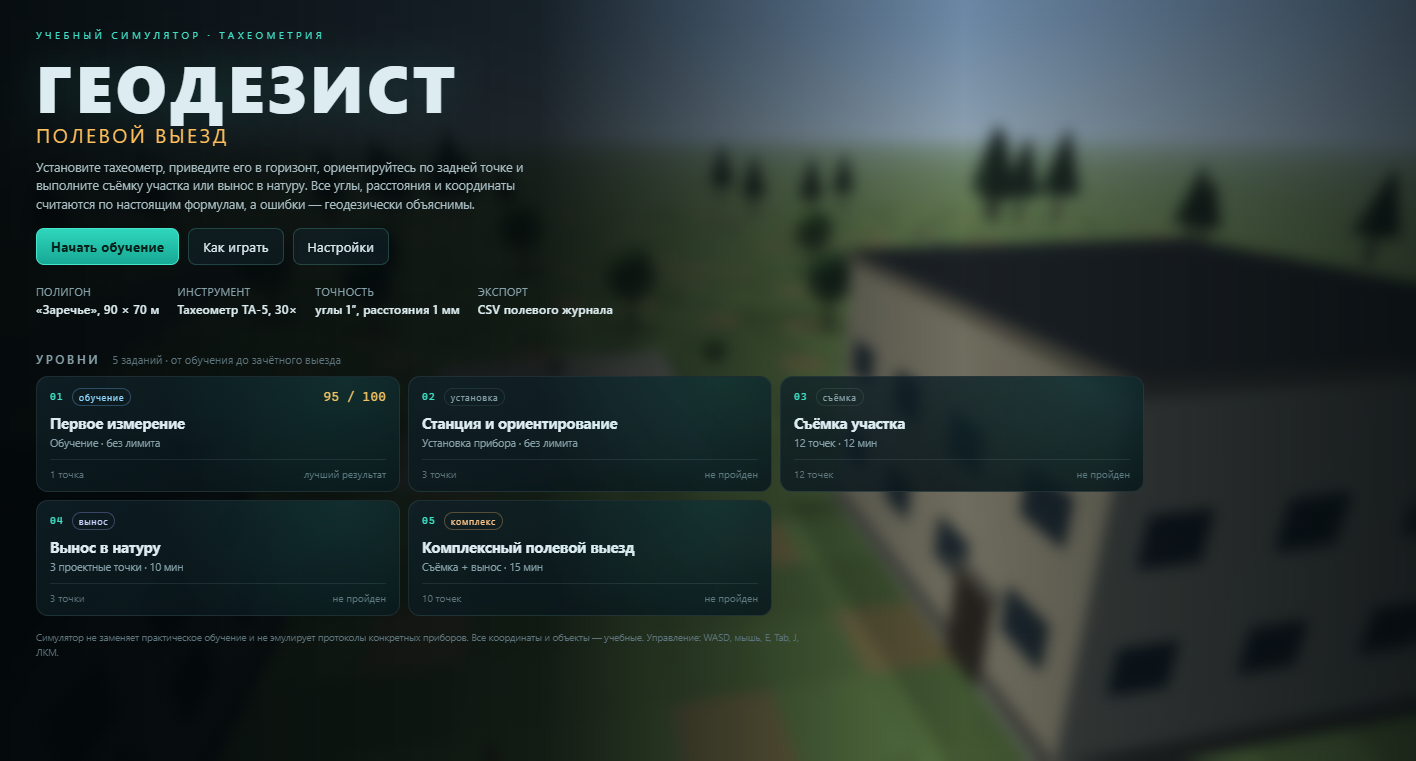
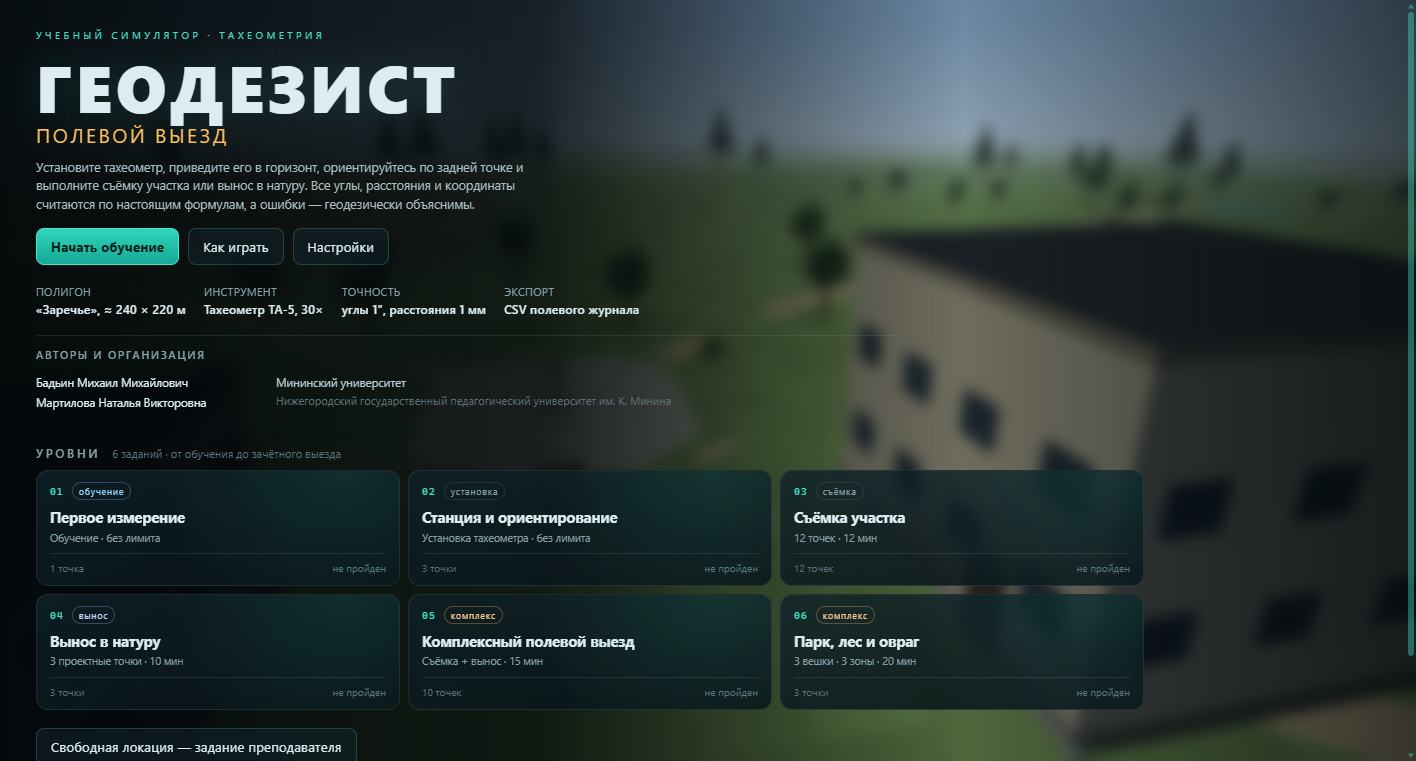
Add files via upload

diff --git a/dist/geodezist.html b/dist/geodezist.html
@@ -352,6 +352,13 @@ body.target-locked .lcd-lock { background: var(--teal); box-shadow: 0 0 8px var(
 .hero-actions { display: flex; gap: 9px; flex-wrap: wrap; margin-bottom: 34px; }
 .hero-meta { display: flex; gap: 26px; flex-wrap: wrap; font-size: 10.5px; color: var(--muted); letter-spacing: .06em; }
 .hero-meta b { display: block; color: var(--text); font-size: 13px; letter-spacing: .02em; margin-top: 2px; font-weight: 600; }
+.authors-block { display: grid; grid-template-columns: 210px 1fr; gap: 10px 30px; max-width: 860px; margin: 28px 0 0; padding-top: 17px; border-top: 1px solid var(--line-soft); }
+.authors-block h3 { grid-column: 1 / -1; margin: 0 0 2px; font-size: 10.5px; font-weight: 600; letter-spacing: .18em; text-transform: uppercase; color: var(--muted); }
+.authors-people { display: flex; flex-direction: column; gap: 3px; font-size: 12.5px; line-height: 1.5; color: var(--text); }
+.authors-people span { display: block; }
+.authors-org { font-size: 12.5px; line-height: 1.5; color: #b9ccd1; }
+.authors-org span { display: block; margin-top: 2px; font-size: 11px; color: var(--muted-2); }
+.title-copyright { margin-top: 18px; padding-top: 10px; border-top: 1px solid rgba(255,255,255,.07); font-size: 10px; line-height: 1.5; color: var(--muted-2); letter-spacing: .02em; }
 .level-section-head { display: flex; align-items: baseline; gap: 12px; margin: 8px 0 13px; }
 .level-section-head h3 { font-size: 12px; letter-spacing: .22em; color: var(--muted); font-weight: 600; margin: 0; }
 .level-section-head span { font-size: 11px; color: var(--muted-2); }
@@ -530,6 +537,8 @@ table.journal td .del:hover { color: var(--red); }
   #lcd { width: 230px; }
   .sheet-body { padding: 14px; }
   .field-grid { grid-template-columns: 1fr 1fr; }
+  .authors-block { grid-template-columns: 1fr; gap: 7px; margin-top: 18px; padding-top: 12px; }
+  .authors-block h3 { grid-column: 1; }
   #minimap-wrap { display: none !important; }
 }
 @media (max-height: 840px) {
@@ -538,6 +547,9 @@ table.journal td .del:hover { color: var(--red); }
   .title-hero h2 { font-size: 20px; margin: 4px 0 10px; }
   .title-hero p { font-size: 12.5px; line-height: 1.5; margin-bottom: 14px; max-width: 540px; }
   .hero-actions { margin-bottom: 20px; }
+  .authors-block { margin-top: 18px; padding-top: 12px; }
+  .authors-people, .authors-org { font-size: 11.5px; }
+  .title-copyright { margin-top: 12px; }
   .hero-meta { gap: 18px; }
   .hero-meta b { font-size: 12px; }
   .level-section-head { margin: 2px 0 9px; }
@@ -4495,10 +4507,16 @@ window.GEO.LEVELS = [
         '<div>ТОЧНОСТЬ<b>углы 1″, расстояния 1 мм</b></div>' +
         '<div>ЭКСПОРТ<b>CSV полевого журнала</b></div>' +
         '</div></div>' +
+        '<div class="authors-block">' +
+        '<h3>Авторы и организация</h3>' +
+        '<div class="authors-people"><span>Бадьин Михаил Михайлович</span><span>Мартилова Наталья Викторовна</span></div>' +
+        '<div class="authors-org">Мининский университет<span>Нижегородский государственный педагогический университет им. К. Минина</span></div>' +
+        '</div>' +
         '<div class="level-section-head" style="margin-top:34px"><h3>УРОВНИ</h3><span>6 заданий · от обучения до зачётного выезда</span></div>' +
         '<div class="level-grid">' + cards + '</div>' +
         '<div class="form-row" style="margin-top:18px"><button class="btn" data-act="custom-level">Свободная локация — задание преподавателя</button></div>' +
         '<div class="title-foot">Симулятор не заменяет практическое обучение и не эмулирует протоколы конкретных тахеометров. Все координаты и объекты — учебные. Управление: WASD, мышь, E, Tab, J, ЛКМ.</div>' +
+        '<div class="title-copyright">© Мининский университет · Бадьин М.М., Мартилова Н.В.</div>' +
         '</div>',
       onMount: function () {
         var sheet = this.root.querySelector('.sheet');

diff --git a/dist/Геодезист_Полевой_выезд.html b/dist/Геодезист_Полевой_выезд.html
@@ -352,6 +352,13 @@ body.target-locked .lcd-lock { background: var(--teal); box-shadow: 0 0 8px var(
 .hero-actions { display: flex; gap: 9px; flex-wrap: wrap; margin-bottom: 34px; }
 .hero-meta { display: flex; gap: 26px; flex-wrap: wrap; font-size: 10.5px; color: var(--muted); letter-spacing: .06em; }
 .hero-meta b { display: block; color: var(--text); font-size: 13px; letter-spacing: .02em; margin-top: 2px; font-weight: 600; }
+.authors-block { display: grid; grid-template-columns: 210px 1fr; gap: 10px 30px; max-width: 860px; margin: 28px 0 0; padding-top: 17px; border-top: 1px solid var(--line-soft); }
+.authors-block h3 { grid-column: 1 / -1; margin: 0 0 2px; font-size: 10.5px; font-weight: 600; letter-spacing: .18em; text-transform: uppercase; color: var(--muted); }
+.authors-people { display: flex; flex-direction: column; gap: 3px; font-size: 12.5px; line-height: 1.5; color: var(--text); }
+.authors-people span { display: block; }
+.authors-org { font-size: 12.5px; line-height: 1.5; color: #b9ccd1; }
+.authors-org span { display: block; margin-top: 2px; font-size: 11px; color: var(--muted-2); }
+.title-copyright { margin-top: 18px; padding-top: 10px; border-top: 1px solid rgba(255,255,255,.07); font-size: 10px; line-height: 1.5; color: var(--muted-2); letter-spacing: .02em; }
 .level-section-head { display: flex; align-items: baseline; gap: 12px; margin: 8px 0 13px; }
 .level-section-head h3 { font-size: 12px; letter-spacing: .22em; color: var(--muted); font-weight: 600; margin: 0; }
 .level-section-head span { font-size: 11px; color: var(--muted-2); }
@@ -530,6 +537,8 @@ table.journal td .del:hover { color: var(--red); }
   #lcd { width: 230px; }
   .sheet-body { padding: 14px; }
   .field-grid { grid-template-columns: 1fr 1fr; }
+  .authors-block { grid-template-columns: 1fr; gap: 7px; margin-top: 18px; padding-top: 12px; }
+  .authors-block h3 { grid-column: 1; }
   #minimap-wrap { display: none !important; }
 }
 @media (max-height: 840px) {
@@ -538,6 +547,9 @@ table.journal td .del:hover { color: var(--red); }
   .title-hero h2 { font-size: 20px; margin: 4px 0 10px; }
   .title-hero p { font-size: 12.5px; line-height: 1.5; margin-bottom: 14px; max-width: 540px; }
   .hero-actions { margin-bottom: 20px; }
+  .authors-block { margin-top: 18px; padding-top: 12px; }
+  .authors-people, .authors-org { font-size: 11.5px; }
+  .title-copyright { margin-top: 12px; }
   .hero-meta { gap: 18px; }
   .hero-meta b { font-size: 12px; }
   .level-section-head { margin: 2px 0 9px; }
@@ -4495,10 +4507,16 @@ window.GEO.LEVELS = [
         '<div>ТОЧНОСТЬ<b>углы 1″, расстояния 1 мм</b></div>' +
         '<div>ЭКСПОРТ<b>CSV полевого журнала</b></div>' +
         '</div></div>' +
+        '<div class="authors-block">' +
+        '<h3>Авторы и организация</h3>' +
+        '<div class="authors-people"><span>Бадьин Михаил Михайлович</span><span>Мартилова Наталья Викторовна</span></div>' +
+        '<div class="authors-org">Мининский университет<span>Нижегородский государственный педагогический университет им. К. Минина</span></div>' +
+        '</div>' +
         '<div class="level-section-head" style="margin-top:34px"><h3>УРОВНИ</h3><span>6 заданий · от обучения до зачётного выезда</span></div>' +
         '<div class="level-grid">' + cards + '</div>' +
         '<div class="form-row" style="margin-top:18px"><button class="btn" data-act="custom-level">Свободная локация — задание преподавателя</button></div>' +
         '<div class="title-foot">Симулятор не заменяет практическое обучение и не эмулирует протоколы конкретных тахеометров. Все координаты и объекты — учебные. Управление: WASD, мышь, E, Tab, J, ЛКМ.</div>' +
+        '<div class="title-copyright">© Мининский университет · Бадьин М.М., Мартилова Н.В.</div>' +
         '</div>',
       onMount: function () {
         var sheet = this.root.querySelector('.sheet');

diff --git a/css/style.css b/css/style.css
@@ -342,6 +342,13 @@ body.target-locked .lcd-lock { background: var(--teal); box-shadow: 0 0 8px var(
 .hero-actions { display: flex; gap: 9px; flex-wrap: wrap; margin-bottom: 34px; }
 .hero-meta { display: flex; gap: 26px; flex-wrap: wrap; font-size: 10.5px; color: var(--muted); letter-spacing: .06em; }
 .hero-meta b { display: block; color: var(--text); font-size: 13px; letter-spacing: .02em; margin-top: 2px; font-weight: 600; }
+.authors-block { display: grid; grid-template-columns: 210px 1fr; gap: 10px 30px; max-width: 860px; margin: 28px 0 0; padding-top: 17px; border-top: 1px solid var(--line-soft); }
+.authors-block h3 { grid-column: 1 / -1; margin: 0 0 2px; font-size: 10.5px; font-weight: 600; letter-spacing: .18em; text-transform: uppercase; color: var(--muted); }
+.authors-people { display: flex; flex-direction: column; gap: 3px; font-size: 12.5px; line-height: 1.5; color: var(--text); }
+.authors-people span { display: block; }
+.authors-org { font-size: 12.5px; line-height: 1.5; color: #b9ccd1; }
+.authors-org span { display: block; margin-top: 2px; font-size: 11px; color: var(--muted-2); }
+.title-copyright { margin-top: 18px; padding-top: 10px; border-top: 1px solid rgba(255,255,255,.07); font-size: 10px; line-height: 1.5; color: var(--muted-2); letter-spacing: .02em; }
 .level-section-head { display: flex; align-items: baseline; gap: 12px; margin: 8px 0 13px; }
 .level-section-head h3 { font-size: 12px; letter-spacing: .22em; color: var(--muted); font-weight: 600; margin: 0; }
 .level-section-head span { font-size: 11px; color: var(--muted-2); }
@@ -520,6 +527,8 @@ table.journal td .del:hover { color: var(--red); }
   #lcd { width: 230px; }
   .sheet-body { padding: 14px; }
   .field-grid { grid-template-columns: 1fr 1fr; }
+  .authors-block { grid-template-columns: 1fr; gap: 7px; margin-top: 18px; padding-top: 12px; }
+  .authors-block h3 { grid-column: 1; }
   #minimap-wrap { display: none !important; }
 }
 @media (max-height: 840px) {
@@ -528,6 +537,9 @@ table.journal td .del:hover { color: var(--red); }
   .title-hero h2 { font-size: 20px; margin: 4px 0 10px; }
   .title-hero p { font-size: 12.5px; line-height: 1.5; margin-bottom: 14px; max-width: 540px; }
   .hero-actions { margin-bottom: 20px; }
+  .authors-block { margin-top: 18px; padding-top: 12px; }
+  .authors-people, .authors-org { font-size: 11.5px; }
+  .title-copyright { margin-top: 12px; }
   .hero-meta { gap: 18px; }
   .hero-meta b { font-size: 12px; }
   .level-section-head { margin: 2px 0 9px; }

diff --git a/js/06_ui.js b/js/06_ui.js
@@ -274,10 +274,16 @@
         '<div>ТОЧНОСТЬ<b>углы 1″, расстояния 1 мм</b></div>' +
         '<div>ЭКСПОРТ<b>CSV полевого журнала</b></div>' +
         '</div></div>' +
+        '<div class="authors-block">' +
+        '<h3>Авторы и организация</h3>' +
+        '<div class="authors-people"><span>Бадьин Михаил Михайлович</span><span>Мартилова Наталья Викторовна</span></div>' +
+        '<div class="authors-org">Мининский университет<span>Нижегородский государственный педагогический университет им. К. Минина</span></div>' +
+        '</div>' +
         '<div class="level-section-head" style="margin-top:34px"><h3>УРОВНИ</h3><span>6 заданий · от обучения до зачётного выезда</span></div>' +
         '<div class="level-grid">' + cards + '</div>' +
         '<div class="form-row" style="margin-top:18px"><button class="btn" data-act="custom-level">Свободная локация — задание преподавателя</button></div>' +
         '<div class="title-foot">Симулятор не заменяет практическое обучение и не эмулирует протоколы конкретных тахеометров. Все координаты и объекты — учебные. Управление: WASD, мышь, E, Tab, J, ЛКМ.</div>' +
+        '<div class="title-copyright">© Мининский университет · Бадьин М.М., Мартилова Н.В.</div>' +
         '</div>',
       onMount: function () {
         var sheet = this.root.querySelector('.sheet');

diff --git a/README.md b/README.md
@@ -14,6 +14,18 @@
 Проект работает офлайн, без сервера и без внешних библиотек: WebGL2 + чистый JavaScript.
 Открывается двойным щелчком по `dist/Геодезист_Полевой_выезд.html`.
 
+## Авторы
+
+**Бадьин Михаил Михайлович**  
+**Мартилова Наталья Викторовна**
+
+Мининский университет (Нижегородский государственный педагогический университет
+им. К. Минина).
+
+«Геодезист: Полевой выезд» — учебный симулятор работы геодезиста с тахеометром:
+установка и горизонтирование прибора, ориентирование, съёмка, вынос в натуру и оценка
+полевого задания. Все измерения и координаты рассчитываются по геодезическим формулам.
+
 ![Титульный экран](docs/screenshots/01-title.png)
 
 ## Быстрый запуск
